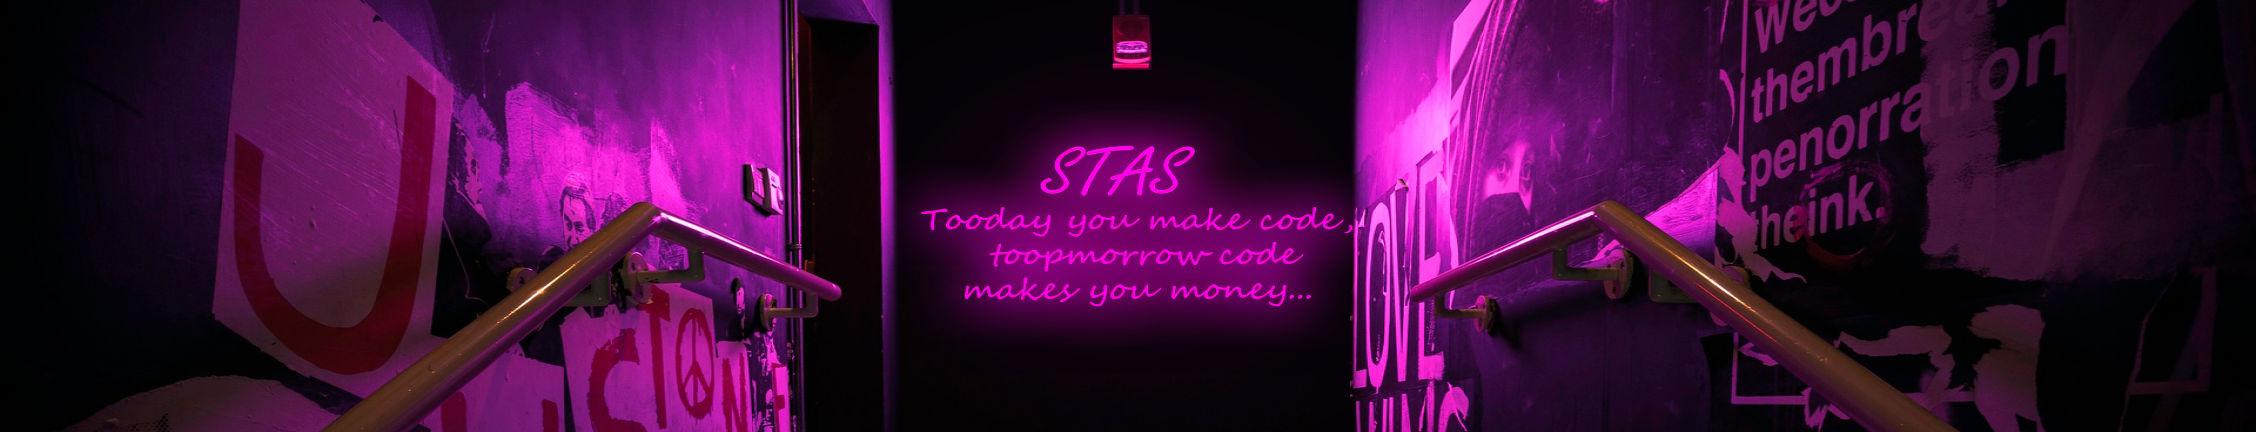
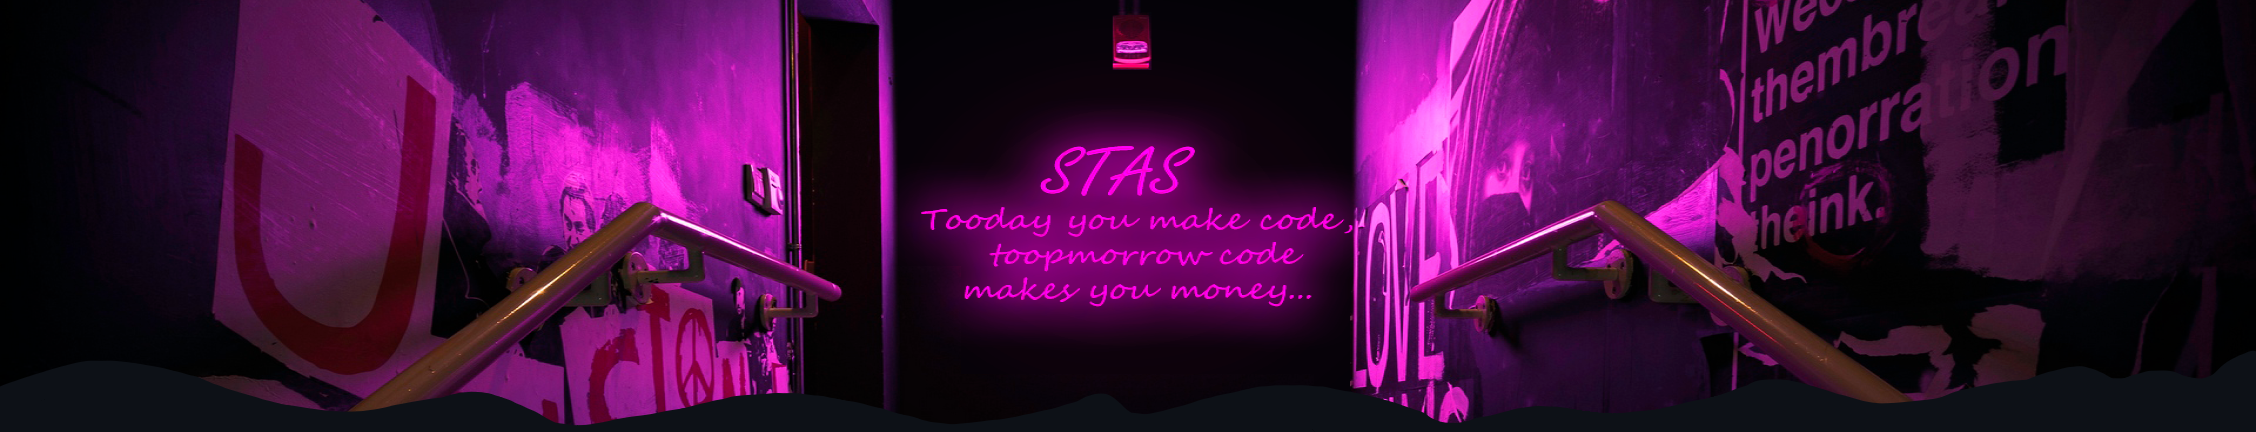
Fix errors

Changed region(s): [[0.031, 0.8727, 0.3723, 1.0], [0.7447, 0.8727, 0.9309, 1.0], [0.5895, 0.9028, 0.6826, 1.0]]

diff --git a/README.md b/README.md
@@ -1,4 +1,4 @@
-[![Header]()
+[![Header](https://github.com/Stas-inside/Stas-inside/blob/main/assets/header.png)](https://www.youtube.com/watch?v=uykVCZpi7SU&ab_channel=JohnDodd)
 
 ### Hi!
 
@@ -15,17 +15,26 @@ Now I learning C++. In free time I make different programs on different language
 My statement is - «While they were playing games, lounging and walking, I was developing, moving forward and made progress.».
 Most importantly - I l❤ve what I do and I get high when everything works out ✔.
 
->Lang
+;====================
+; Integration
+;=============
 
->Integration
+![Telegram](https://img.shields.io/badge/-Telerram-00B1FFFF)
 
-[![Telegram](https://img.shields.io/static/v1?label=Telegram&message=@Mani_Fast&color=00B1FF&style=flat-square)](https://t.me/Mani_Fast)
+my Telegram - @Mani_Fast
 
 [my Steam](steamcommunity.com/id/manifast/)
 
 [my YouTube](steamcommunity.com/id/manifast/)
-![Views](https://img.shields.io/youtube/channel/views/UCKcWOEWJ1hrUW1irBZz-8xQ?color=%2300B1FFFF&label=YouTube%20viewers&style=flat-square)
+https://img.shields.io/youtube/channel/views/UCKcWOEWJ1hrUW1irBZz-8xQ?color=%2300B1FFFF&label=YouTube%20viewers&style=flat-square
 
 my Discord  - ManiFast#8021
 
 my Spoify   - ManiFast
+
+
+Lang
+
+PC
+
+Follow
